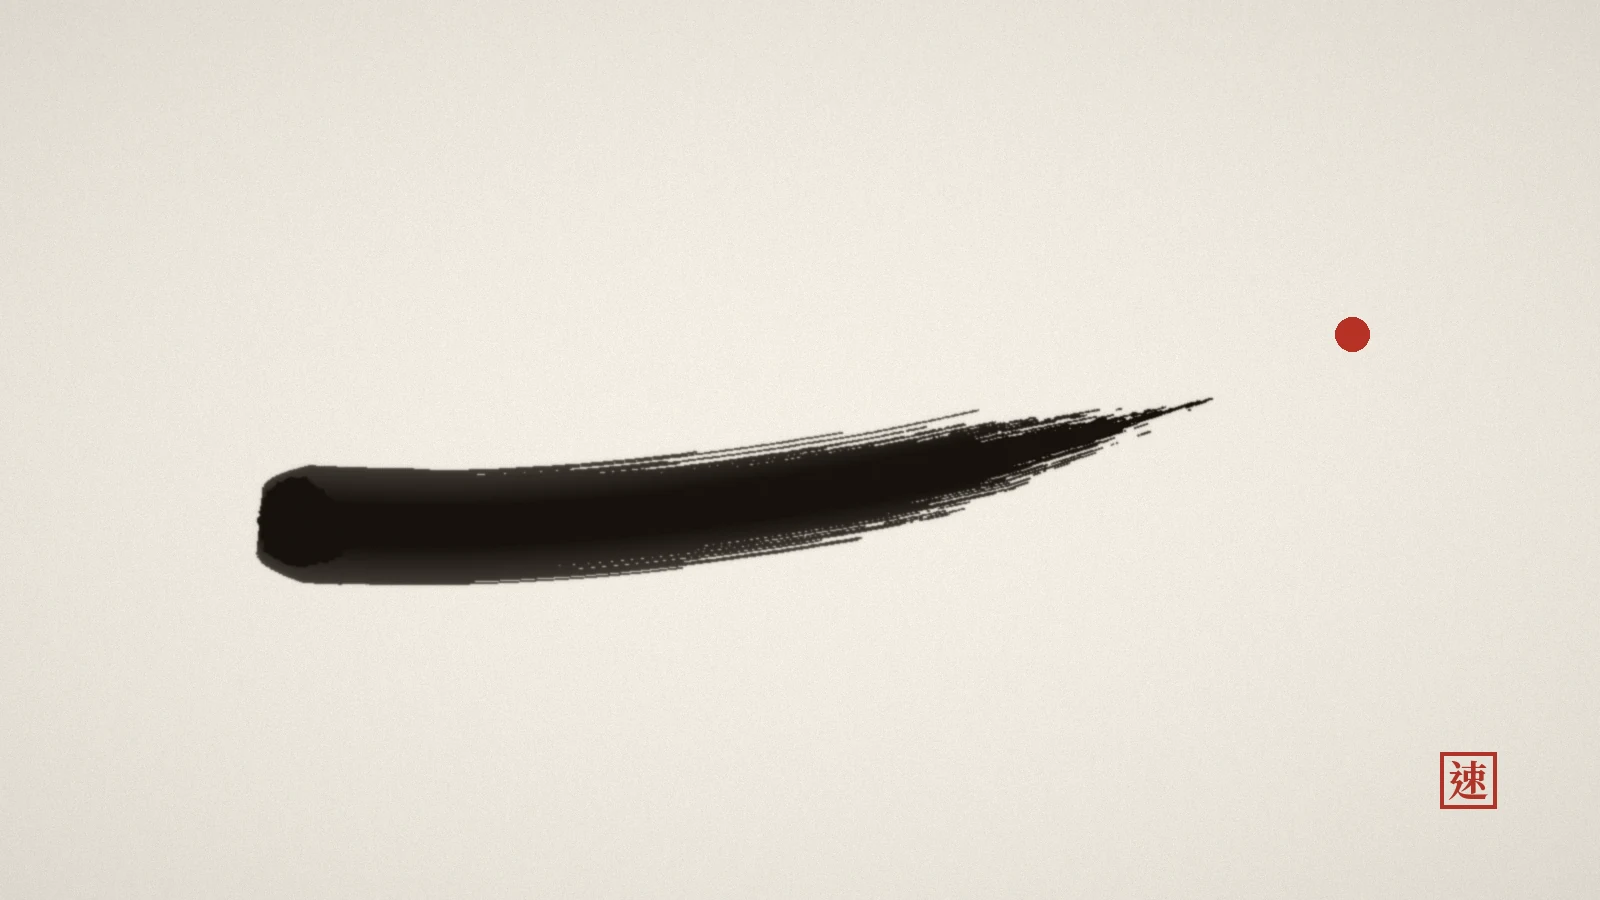
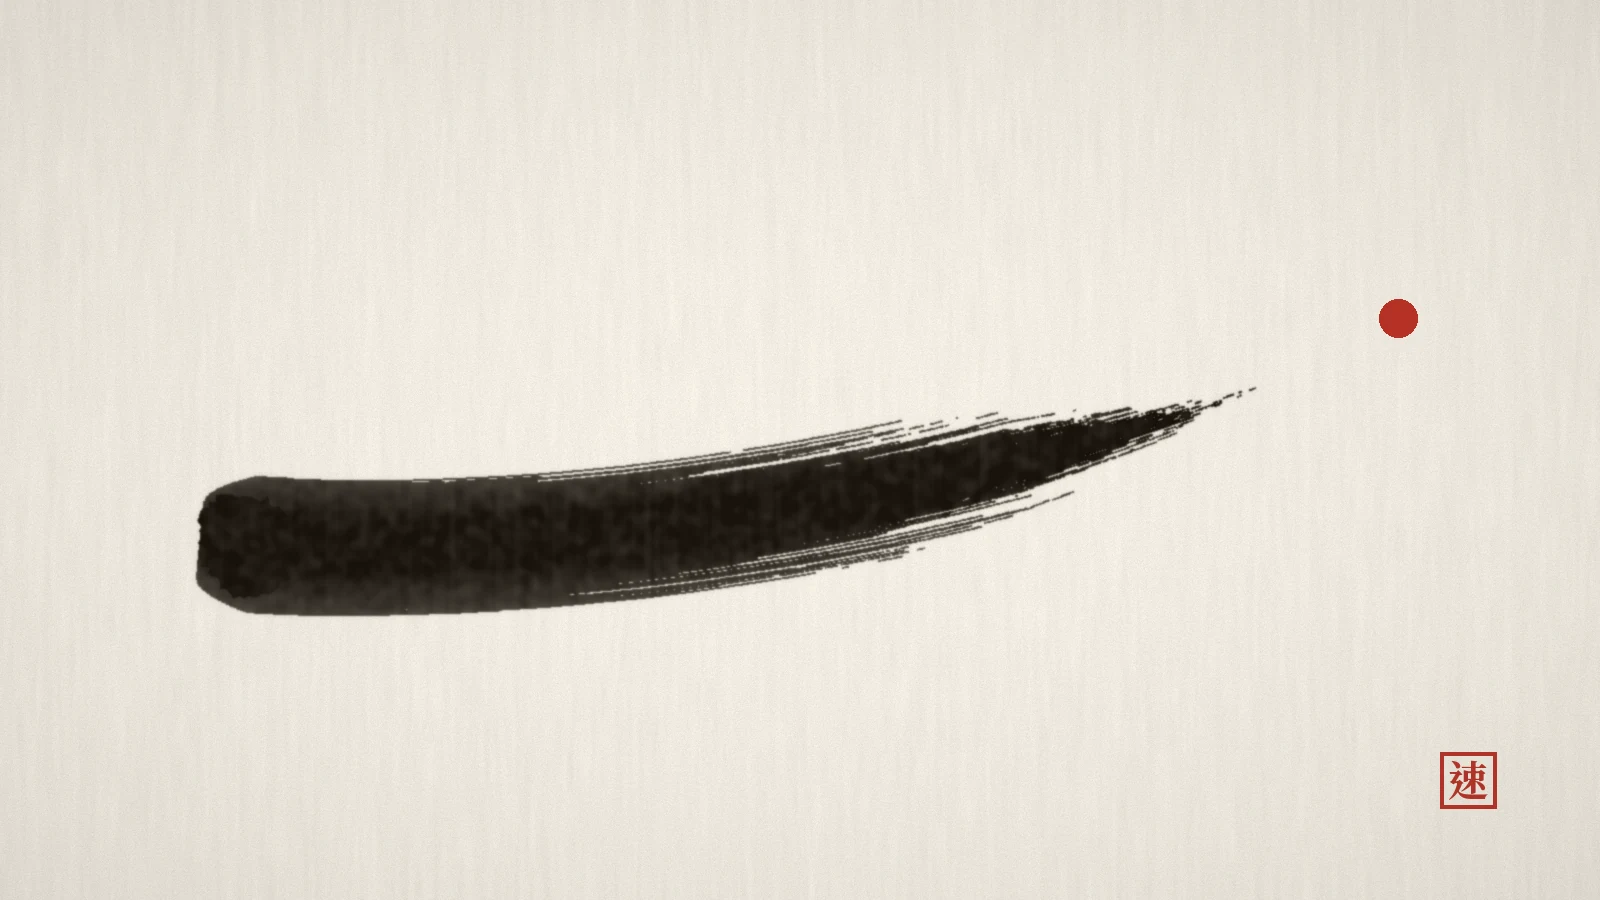
Megakernel cover: paper fibres and ink texture of the series, a larger stroke; its generator in docs/
Claude-Session: https://claude.ai/code/session_01Y2UvzxbmKnKZUoNbCx3aJ6

Changed region(s): [[0.125, 0.4356, 0.7812, 0.6844], [0.8125, 0.3422, 0.9062, 0.4044]]

diff --git a/docs/megakernel_cover.py b/docs/megakernel_cover.py
@@ -1,0 +1,137 @@
+"""Ink-wash cover for "A Megakernel per Model" (笔墨 series): 一笔 — separate pale dabs, with gaps, gathering into one
+continuous dark stroke that ends in a red dot; a red seal with 一. 1600x900 WebP + 1200x630 JPEG."""
+import math
+import sys
+
+import numpy as np
+from PIL import Image, ImageDraw, ImageFilter
+
+W, H = 1600, 900
+FONT = sys.argv[3] if len(sys.argv) > 3 else 'NotoSerifTC.ttf'
+rng = np.random.default_rng(20261118)
+
+
+def blur(a, r):
+    im = Image.fromarray(np.clip(a * 255, 0, 255).astype(np.uint8))
+    return np.asarray(im.filter(ImageFilter.GaussianBlur(r)), dtype=np.float32) / 255
+
+
+def paper():
+    base = np.array([244, 239, 228], np.float32) / 255
+    # vertical fibres: column noise stretched along y
+    cols = rng.normal(0, 1, (H // 40 + 2, W // 2)).astype(np.float32)
+    fib = np.asarray(Image.fromarray(((cols - cols.min()) / (cols.max() - cols.min()) * 255).astype(np.uint8)).resize((W, H), Image.BICUBIC), np.float32) / 255
+    fib = blur(fib, 1.6) - 0.5
+    streak = np.repeat(rng.normal(0, 1, (1, W)).astype(np.float32), H, 0)
+    streak = blur((streak - streak.min()) / (streak.max() - streak.min()), 2.5) - 0.5
+    grain = rng.normal(0, 1, (H, W)).astype(np.float32) * 0.012
+    shade = 1 - 0.07 * fib - 0.05 * streak - grain
+    # a soft vignette
+    yy, xx = np.mgrid[0:H, 0:W]
+    v = 1 - 0.05 * (((xx - W / 2) / W) ** 2 + ((yy - H / 2) / H) ** 2) * 4
+    return np.clip(base[None, None, :] * (shade * v)[..., None], 0, 1)
+
+
+def bezier(p, n):
+    t = np.linspace(0, 1, n)[:, None]
+    p = np.asarray(p, np.float32)
+    return ((1 - t) ** 3) * p[0] + 3 * ((1 - t) ** 2) * t * p[1] + 3 * (1 - t) * t ** 2 * p[2] + t ** 3 * p[3]
+
+
+def smooth_noise(n, scale):
+    k = max(3, int(scale))
+    x = rng.random(n + 2 * k)
+    return np.convolve(x, np.ones(k) / k, mode="same")[k:n + k] * 2 - 1
+
+
+def stroke(ink, pts, width, darkness, dry=0.5, bristles=80, head=1.0, wet=0.7, press=None):
+    """A brush stroke: a pressed head, a solid wet body, dry-brush streaks (飞白) at the edges and towards the end."""
+    layer = Image.new("L", (W, H), 0)
+    d = ImageDraw.Draw(layer)
+    n = len(pts)
+    tang = np.gradient(pts, axis=0)
+    tang /= np.linalg.norm(tang, axis=1, keepdims=True) + 1e-9
+    norm = np.stack([-tang[:, 1], tang[:, 0]], 1)
+    s = np.linspace(0, 1, n)
+    # width: quick swell after the head, slow thinning to the tail
+    prof = np.clip(np.minimum(0.45 + 0.55 * np.minimum(s / 0.05, 1) ** 0.6, (1 - s) / 0.28), 0.04, 1) ** 0.7
+    if press is not None:
+        prof = prof * press(s)
+    wobble = smooth_noise(n, n / 6) * width * 0.04
+    centre = pts + norm * wobble[:, None]
+    # wet body: a filled polygon over the part of the stroke that still has ink
+    m = int(n * wet)
+    core = 0.62
+    rough_l = 1 + 0.07 * smooth_noise(m, 7)
+    rough_r = 1 + 0.07 * smooth_noise(m, 7)
+    left = centre[:m] + norm[:m] * (prof[:m] * rough_l * width * core / 2)[:, None]
+    right = centre[:m] - norm[:m] * (prof[:m] * rough_r * width * core / 2)[:, None]
+    d.polygon([tuple(p) for p in np.vstack([left, right[::-1]])], fill=235)
+    # bristles over the full width
+    for b in range(bristles):
+        off = (b + rng.random()) / bristles * 2 - 1
+        edge = abs(off)
+        life = 1 - dry * (0.15 + 0.85 * edge ** 1.3) * rng.uniform(0.35, 1.0)
+        gap = smooth_noise(n, rng.uniform(6, 22))
+        thresh = -1 + 1.6 * np.clip((s - life * 0.55) / max(1e-3, 1 - life * 0.55), 0, 1) ** 1.5 + 0.5 * edge * dry
+        alive = (s < life) & (gap > thresh)
+        lw = max(2, int(width / bristles * rng.uniform(1.6, 3.2)))
+        val = int(255 * (0.75 + 0.25 * (1 - edge)))
+        for i in range(n - 1):
+            if alive[i]:
+                o = off * prof[i] * width / 2
+                d.line([tuple(centre[i] + norm[i] * o), tuple(centre[i + 1] + norm[i + 1] * o)], fill=val, width=lw)
+    # the entry (起笔): a tilted, slightly irregular oval where the brush was pressed down
+    ang = math.atan2(tang[0][1], tang[0][0]) + math.radians(38)
+    cx, cy = centre[0] + tang[0] * width * 0.36
+    th = np.linspace(0, 2 * np.pi, 72, endpoint=False)
+    rad = 1 + 0.06 * np.cos(3 * th + rng.uniform(0, 6)) + 0.04 * rng.normal(0, 1, th.size)
+    rx, ry = width * 0.5 * head, width * 0.44 * head
+    ex, ey = rx * rad * np.cos(th), ry * rad * np.sin(th)
+    poly = [(cx + x * math.cos(ang) - y * math.sin(ang), cy + x * math.sin(ang) + y * math.cos(ang)) for x, y in zip(ex, ey)]
+    d.polygon(poly, fill=235)
+    m = np.asarray(layer, np.float32) / 255
+    m = 0.88 * blur(m, 0.9) + 0.12 * blur(m, 3.0)             # ink settles into the paper
+    ink[:] = 1 - (1 - ink) * (1 - darkness * np.clip(m * 1.1, 0, 1))
+
+
+def seal(img, x, y, size, glyph="速"):
+    """A small red seal in the series' style: a square frame with the character in red (朱文)."""
+    from PIL import ImageFont
+    d = ImageDraw.Draw(img)
+    red = (176, 52, 41)
+    d.rectangle([x, y, x + size, y + size], outline=red, width=max(3, size // 13))
+    f = ImageFont.truetype(FONT, int(size * 0.74))
+    try:
+        f.set_variation_by_name("Bold")
+    except Exception:
+        pass
+    l, t, r, bb = d.textbbox((0, 0), glyph, font=f)
+    d.text((x + (size - (r - l)) / 2 - l, y + (size - (bb - t)) / 2 - t), glyph, font=f, fill=red)
+
+
+def main(out_webp, out_jpg):
+    img = paper()
+    ink = np.zeros((H, W), np.float32)
+    # one fast stroke across the frame: pressed in at the left, flying white as the brush races to the right
+    path = bezier([(200, 540), (540, 572), (980, 500), (1330, 360)], 760)
+    stroke(ink, path, 136, 0.97, dry=1.0, bristles=170, head=0.8, wet=0.45)
+    # ink takes the paper's texture: mottled where the fibres soak it up
+    mott = blur(rng.random((H, W)).astype(np.float32), 3.5)
+    mott = (mott - mott.mean()) / (mott.std() + 1e-6)
+    vert = np.repeat(rng.normal(0, 1, (1, W)).astype(np.float32), H, 0)
+    vert = blur((vert - vert.min()) / (vert.max() - vert.min()), 1.5) - 0.5
+    ink = np.clip(ink * (1 - 0.022 * mott - 0.10 * vert * ink), 0, 1)
+    img = img * (1 - ink[..., None] * np.array([0.90, 0.92, 0.95])[None, None, :])
+    out = Image.fromarray((np.clip(img, 0, 1) * 255).astype(np.uint8))
+    d = ImageDraw.Draw(out)
+    cx, cy, r = 1398, 318, 19                                 # the token: a red dot past the stroke's end
+    d.ellipse([cx - r, cy - r, cx + r, cy + r], fill=(181, 50, 38))
+    seal(out, 1440, 752, 56)
+    out.save(out_webp, "WEBP", quality=88, method=6)
+    og = out.resize((1200, 675), Image.LANCZOS).crop((0, 22, 1200, 652))
+    og.save(out_jpg, "JPEG", quality=88)
+
+
+if __name__ == "__main__":
+    main(sys.argv[1], sys.argv[2])
